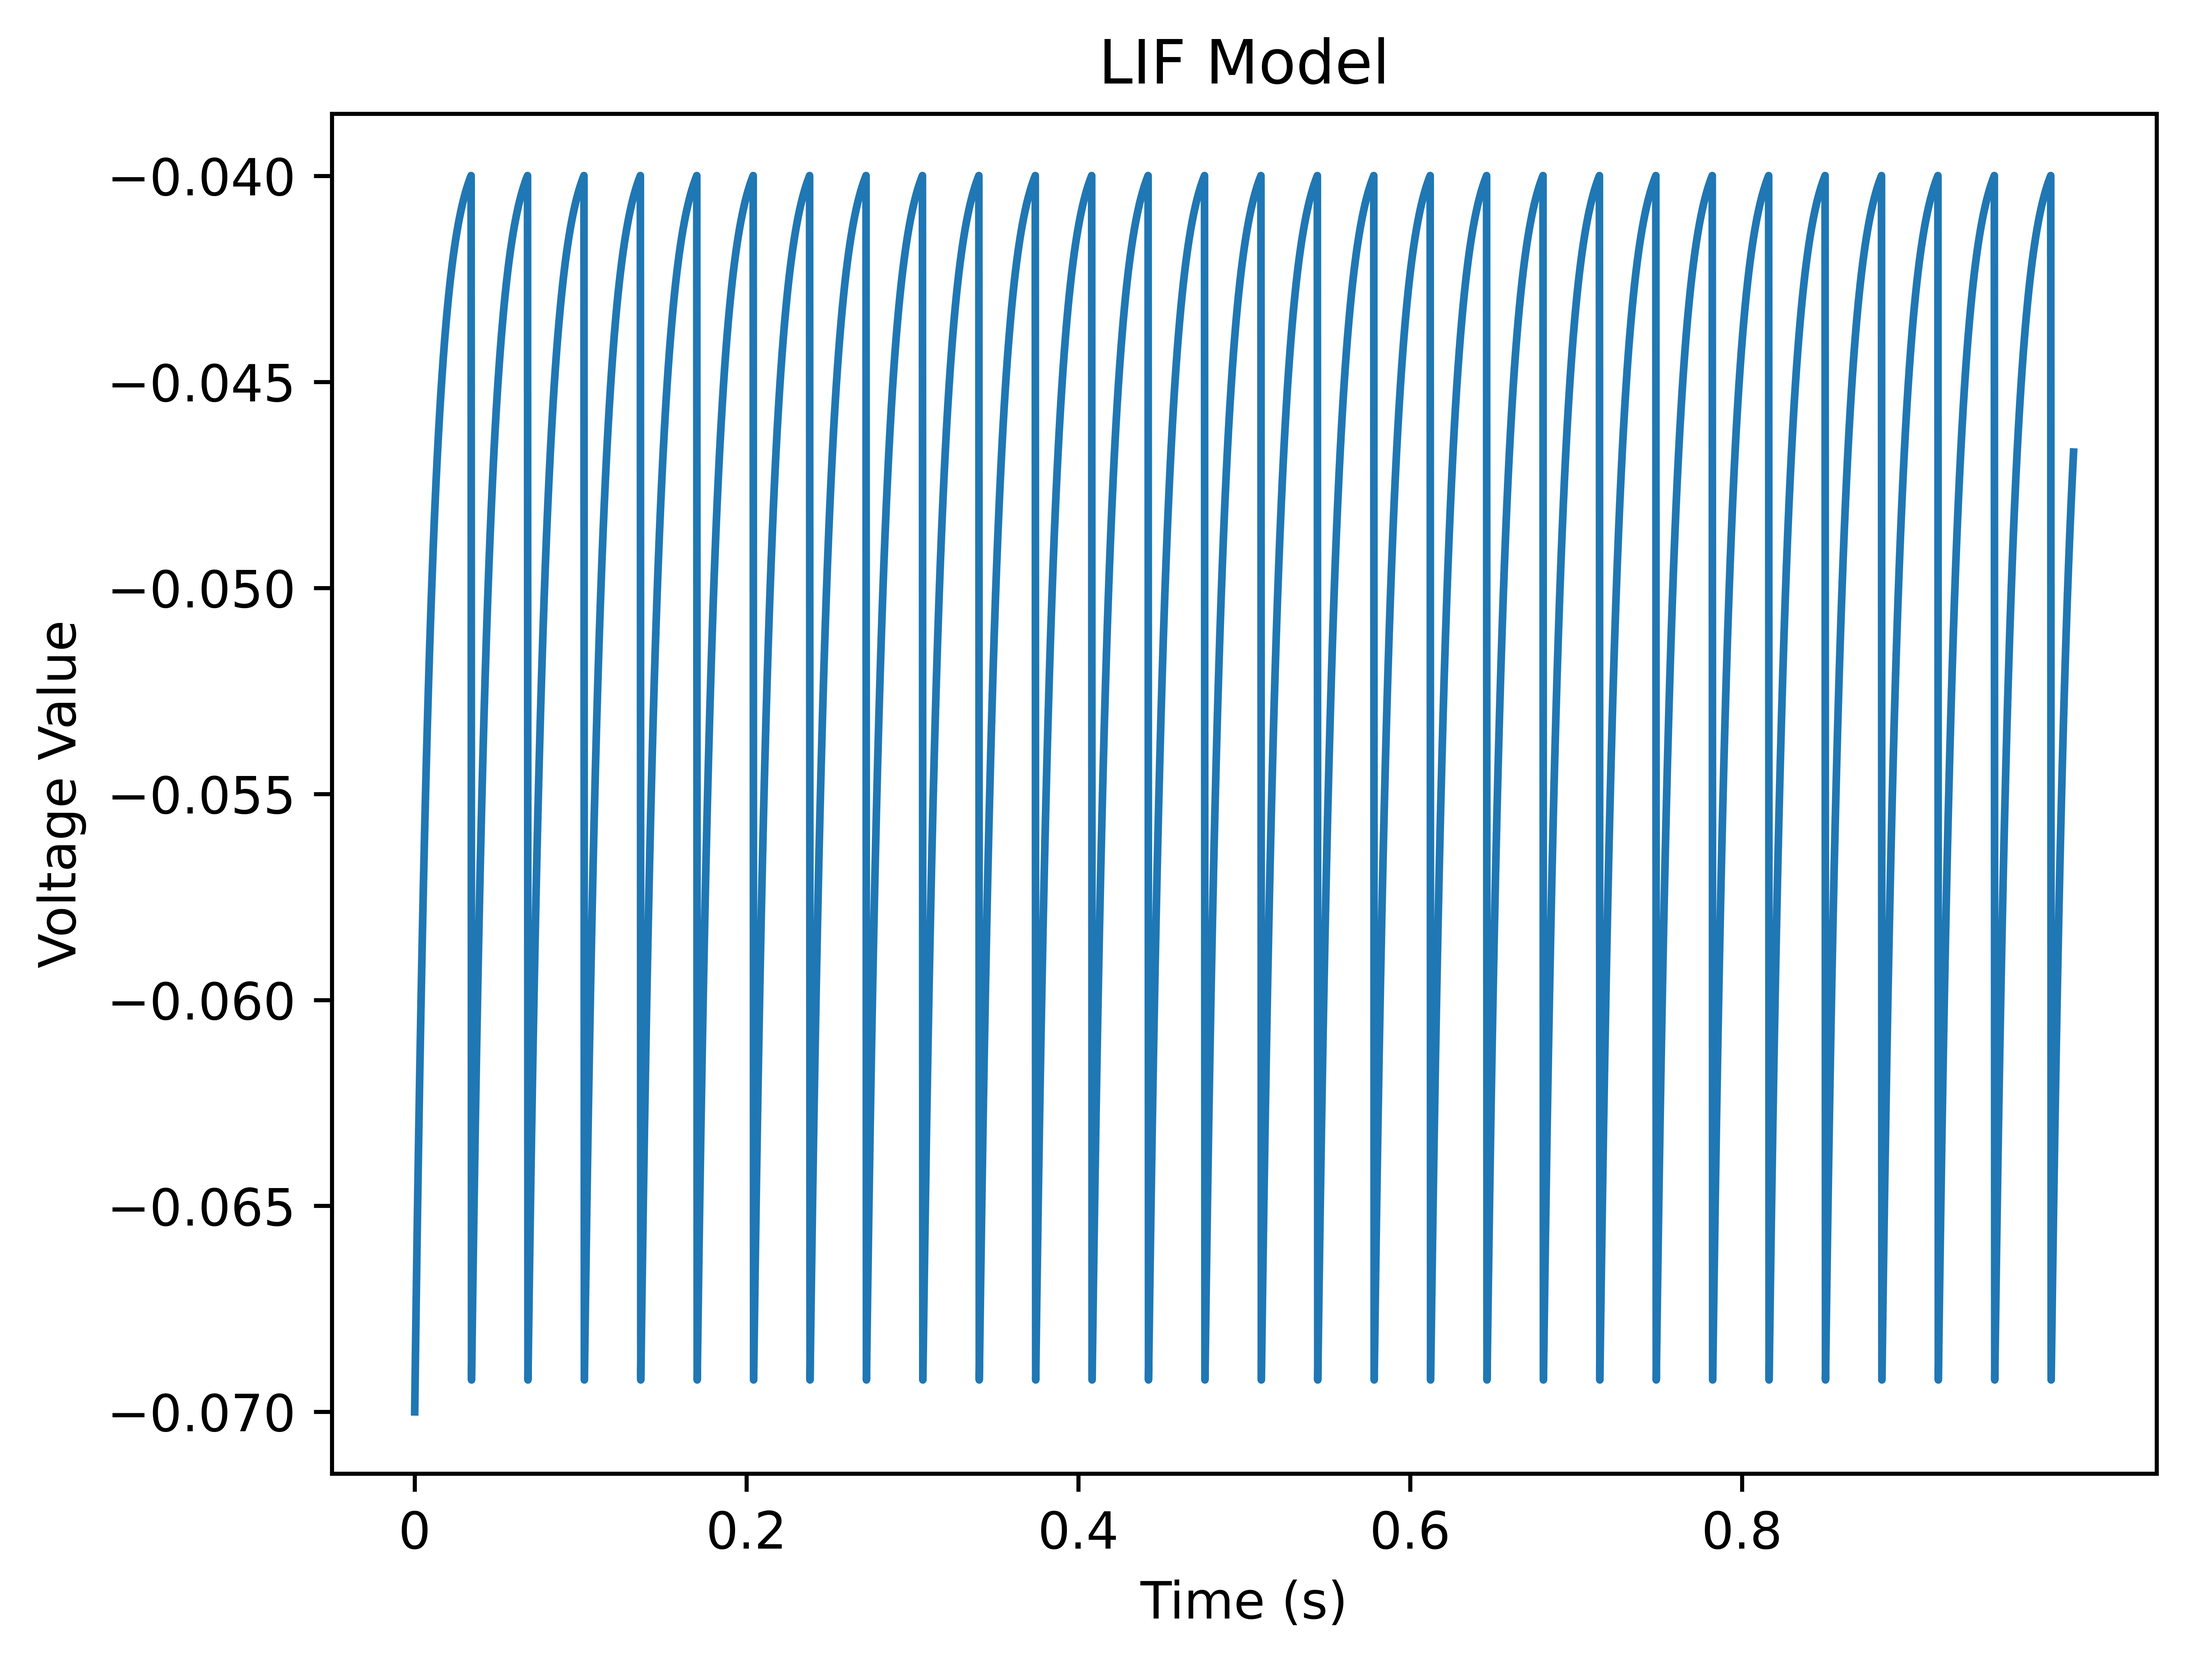
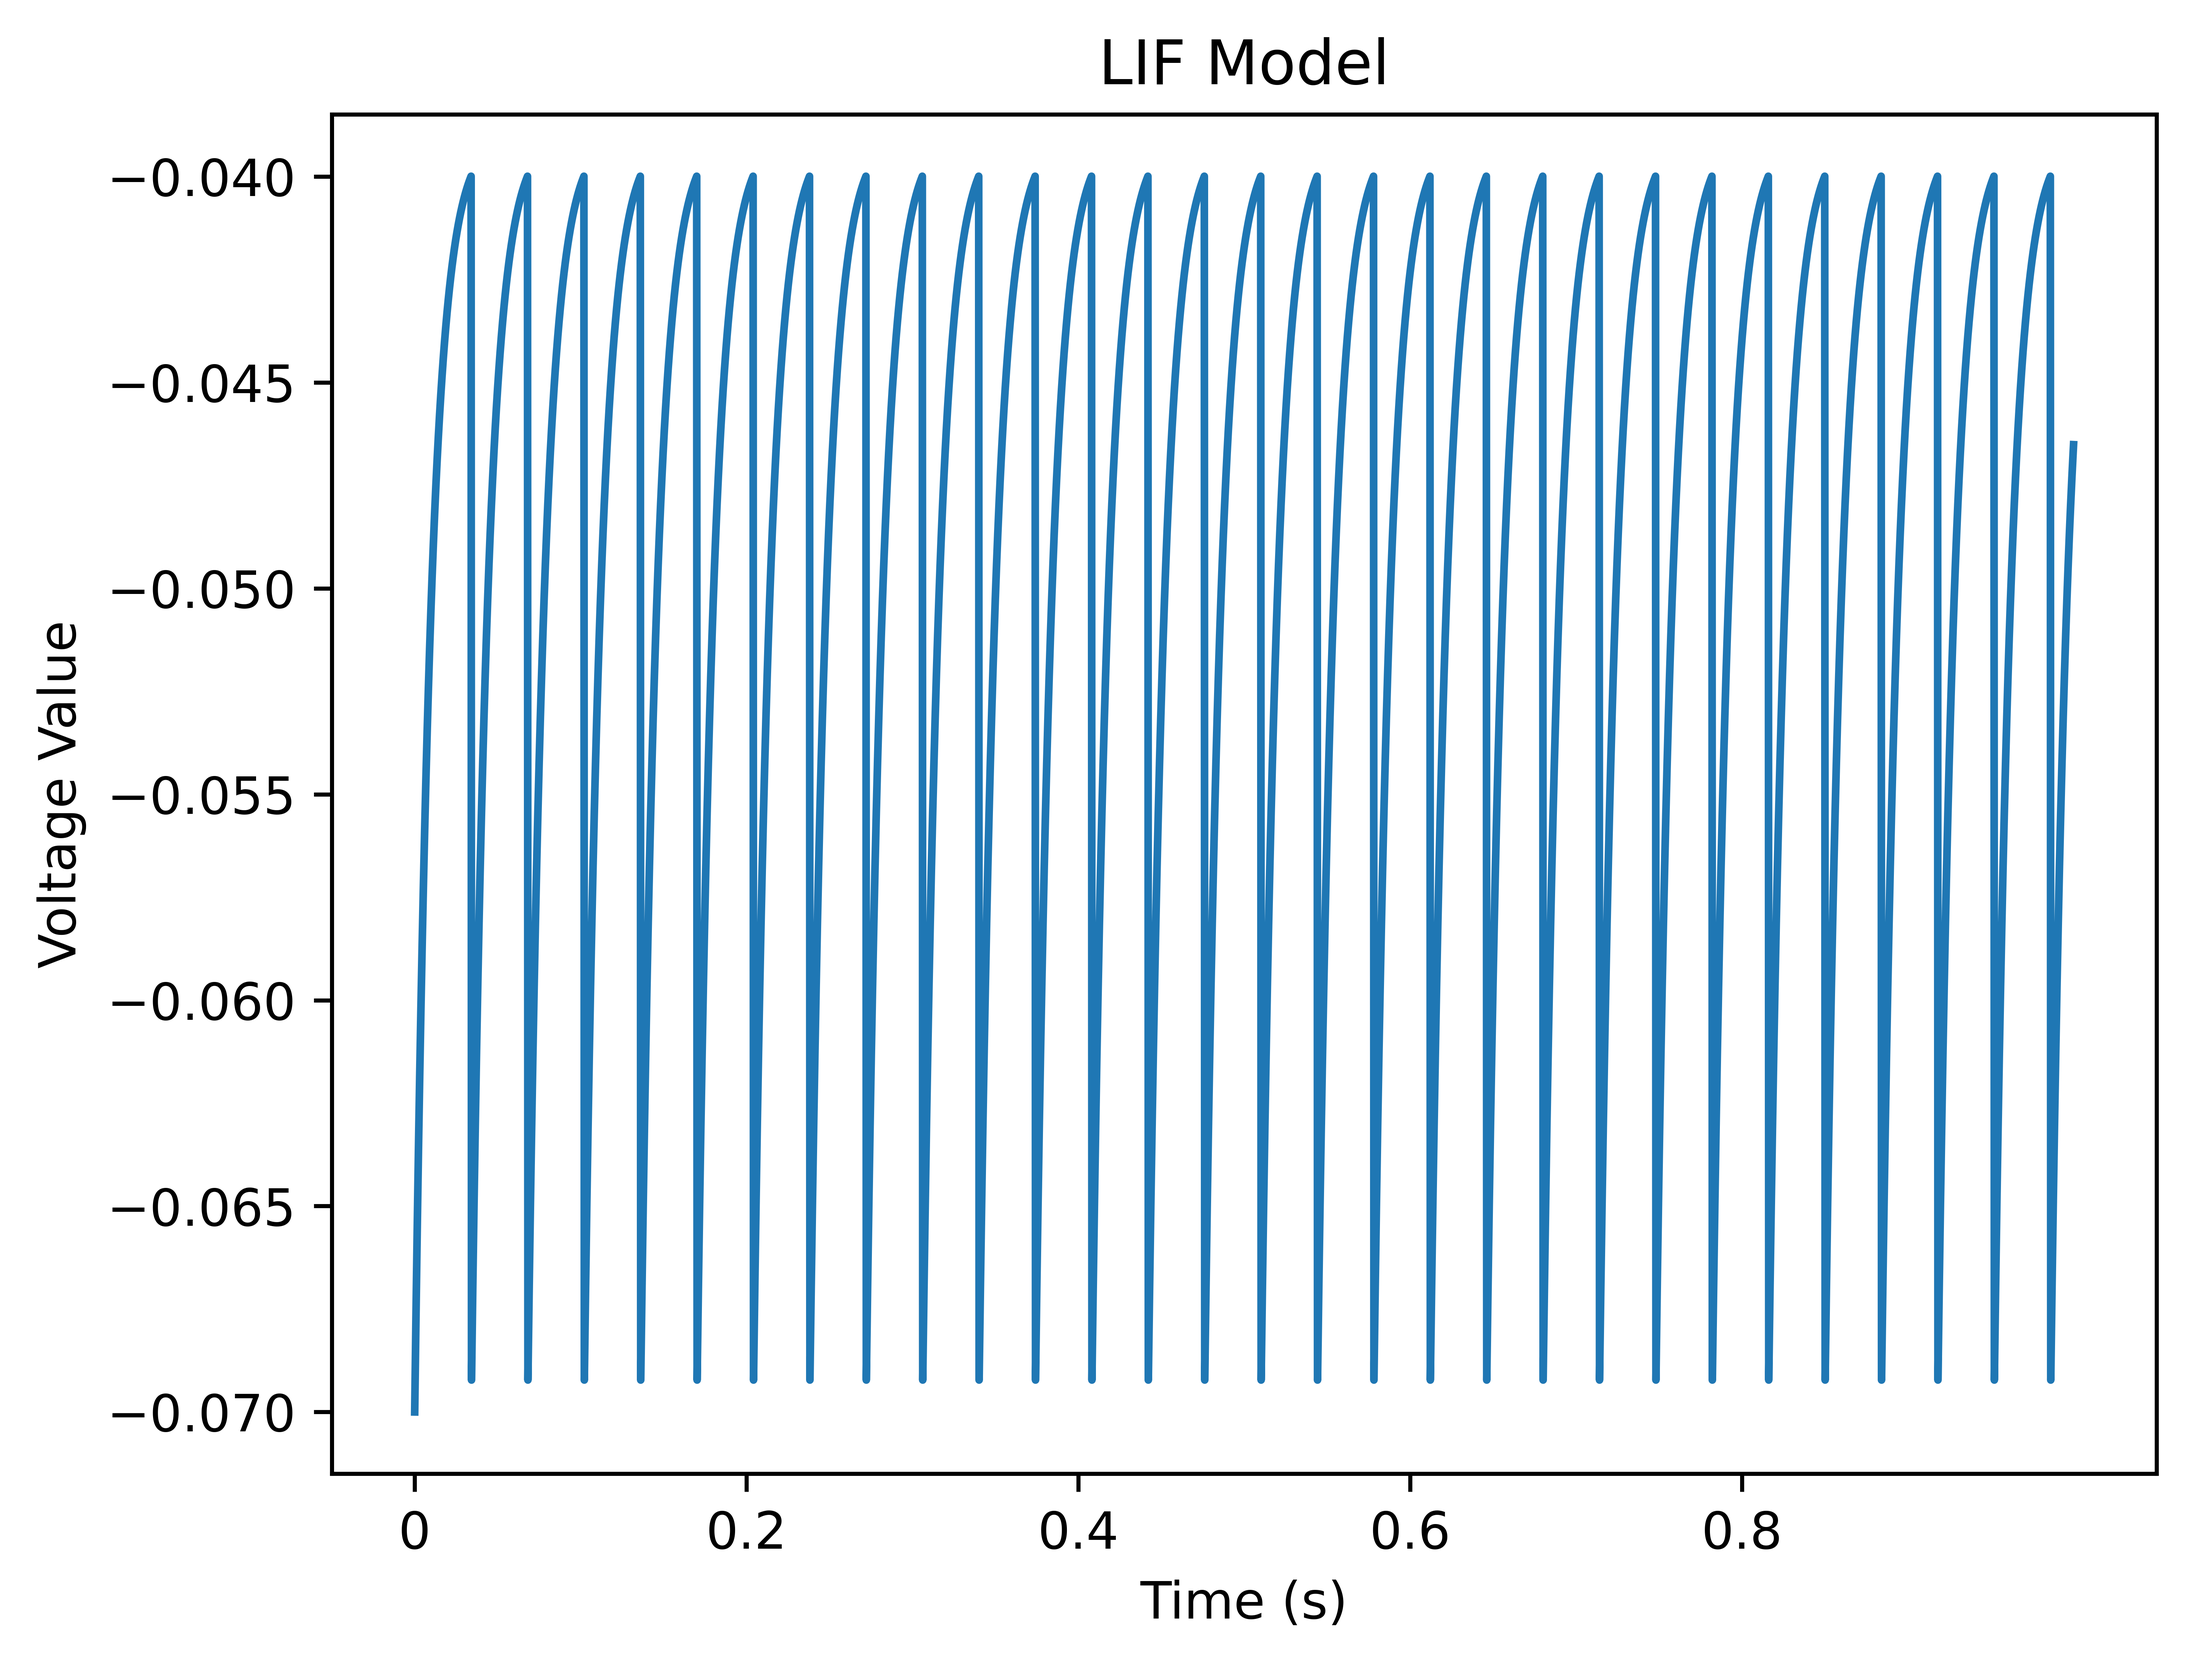
added runSimulation

diff --git a/Main.py b/Main.py
@@ -205,7 +205,16 @@ class STDPSynapse(poissonSynapse):
 
         self.RmGs = self.Rm * self.Gi
 
+def runSimulation(Neurons, Synapses):
+    global currentTime
+    for t in timestamps:
+        currentTime = t
+        for n in Neurons:
+            n.update()
+        for syn in Synapses:
+            syn.update()
 
+    return Neurons, Synapses
 
 # -----------------------------------------------------------------------------
 #                           Question 1
@@ -234,8 +243,11 @@ class STDPSynapse(poissonSynapse):
 def QuestionOne():
     #                    (tau,volt, volt_reset, leaky, volt_Thesh, Rm_Ie):
     lifNeuron = LIFNeuron(10 ,-70 ,        -70,   -70,        -40,   Rm=10, Ie=3.1)
-    for i in range(len(timestamps) - 1):    # Loop through how many time steps there are
-        lifNeuron.update()
+
+    runSimulation([lifNeuron], [])
+
+    #for i in range(len(timestamps) - 1):    # Loop through how many time steps there are
+    #    lifNeuron.update()
 
     print(len(lifNeuron.voltage_History))
     fig, ax = plt.subplots(1,1)
@@ -248,7 +260,8 @@ def QuestionOne():
 
     plt.title("LIF Model")
 
-    print("Saving figure_p1_q1_new.png after - %s seconds -" % (time.time() - start_time")
+    print("Saving figure_p1_q1_new.png after - %s seconds -" % (time.time() - start_time))
+
     plt.savefig('figure_p1_q1_new.png', bbox_inches='tight', dpi=1000)
 
 
@@ -269,27 +282,30 @@ def QuestionTwo(Es):
     synapse1_2 = Synapse(lifNeuron1   , lifNeuron2    , 0.15 , 0.5   , 10 , Es)
     synapse2_1 = Synapse(lifNeuron2   , lifNeuron1    , 0.15 , 0.5   , 10 , Es)
 
+    Ns = [lifNeuron1, lifNeuron2]
+    Ss = [synapse1_2, synapse2_1]
+    Ns, Ss = runSimulation(Ns, Ss)
 
-    for i in range(len(timestamps) - 1):    # Loop through how many time steps there are
-        lifNeuron1.update()
-        lifNeuron2.update()
-        synapse1_2.update()
-        synapse2_1.update()
+    # for i in range(len(timestamps) - 1):    # Loop through how many time steps there are
+    #     lifNeuron1.update()
+    #     lifNeuron2.update()
+    #     synapse1_2.update()
+    #     synapse2_1.update()
 
 
     fig, ax = plt.subplots(1,1)
 
-    ax.plot(lifNeuron1.voltage_History, color = 'blue')
-    ax.plot(lifNeuron2.voltage_History, color = 'red')
+    ax.plot(Ns[0].voltage_History, color = 'blue')
+    ax.plot(Ns[1].voltage_History, color = 'red')
     ax.legend(['lifNeuron One', 'lifNeuron 2'])
 
-    plt.xticks(np.arange(0,len(lifNeuron1.voltage_History), step=len(lifNeuron1.voltage_History)/5), ["0", "0.2", "0.4", "0.6", "0.8", "1"])
+    plt.xticks(np.arange(0,len(Ns[0].voltage_History), step=len(Ns[0].voltage_History)/5), ["0", "0.2", "0.4", "0.6", "0.8", "1"])
     plt.xlabel("Time (s)")
     plt.ylabel("Voltage Value")
 
     plt.title("LIF Model")
 
-    print("Saving figure_p1_q2_new.png after - %s seconds -" % (time.time() - start_time)
+    print("Saving figure_p1_q2_new.png after - %s seconds -" % (time.time() - start_time))
     plt.savefig('figure_p1_q2_new.png', bbox_inches='tight', dpi=1000)
 
 # =============================================================================
@@ -305,12 +321,13 @@ def PartB_QuestionOne():
     #                          (post_LIFNeuron, Gi, Delta_s, tauS, Es, Firerate):
     PSynapses = [poissonSynapse(lifNeuron     , 4 ,0.5     , 2   , 0 , 15 ) for i  in range(40)]
 
-    for t in timestamps:
-        currentTime = t
-        lifNeuron.update()
-        for syn in PSynapses:
-            syn.update()
+    lifNeuron, PSynapses = runSimulation([lifNeuron], PSynapses)
 
+    # for t in timestamps:
+    #     currentTime = t
+    #     lifNeuron.update()
+    #     for syn in PSynapses:
+    #         syn.update()
 
     fig, ax = plt.subplots(1,1)
 
@@ -323,7 +340,7 @@ def PartB_QuestionOne():
 
     plt.title("Part 2 Q1")
 
-    print("Saving figure_p2_q1_new.png after - %s seconds -" % (time.time() - start_time)
+    print("Saving figure_p2_q1_new.png after - %s seconds -" % (time.time() - start_time))
     plt.savefig('figure_p2_q1_new.png', bbox_inches='tight', dpi=1000)
 
 
@@ -344,11 +361,13 @@ def PartB_QuestionTwo(stdp):
         PSynapses = [STDPSynapse(0.2, 0.25, 20, 20,synapseVariables) for i  in range(40)]
 
     spike_Counter_Bins = []
+
     for t in timestamps:
+        currentTime = t
         lifNeuron.update()
         for syn in PSynapses:
             syn.update()
-        currentTime = t
+
 
         if (t % 10 < timestep/2 and not t == 0):
             spike_Counter_Bins.append(lifNeuron.spike_count/10)
@@ -383,15 +402,9 @@ def PartB_QuestionTwo(stdp):
     #print("average Gi: ", mean(final_Gis))
     print("average <f> of last 30s: ", str(mean(spike_Counter_Bins[-3:])))
 
-    print("Saving figure_2p_2a_new.png after - %s seconds -" % (time.time() - start_time)
+    print("Saving figure_2p_2a_new.png after - %s seconds -" % (time.time() - start_time))
     plt.savefig('figure_2p_2a_new.png', bbox_inches='tight')
 
-def PartB_QuestionThree_Aux(lifNeuron, PSynapses):
-    for t in timestamps:
-        lifNeuron.update()
-        for syn in PSynapses:
-            syn.update()
-        currentTime = t
 
 def PartB_QuestionThree():
 
@@ -412,12 +425,12 @@ def PartB_QuestionThree():
             #                              (post_LIFNeuron, Gi, Delta_s, tauS, Es, Firerate):
             if (not stdp):
                 PSynapses = [poissonSynapse(lifNeuron     , 4 ,0.5     , 2   , 0 , 10 + j ) for i  in range(40)]
-                PartB_QuestionThree_Aux(lifNeuron, PSynapses)   #run the sim
+                runSimulation([lifNeuron], PSynapses)   #run the sim
                 spike_Counter_Bins.append(lifNeuron.spike_count/300)  # Add the total spike count to a list
             else:
                 #                       (aPlus, aMinus, tauPlus, tauMinus, *sV)
                 PSynapses = [STDPSynapse(0.2, 0.25, 20, 20,synapseVariables) for i  in range(40)]
-                PartB_QuestionThree_Aux(lifNeuron, PSynapses)   # Run the sim
+                runSimulation([lifNeuron], PSynapses)   # Run the sim
                 spike_Counter_Bins_stdp.append(lifNeuron.spike_count/300)    # Add the total spike count to a list
 
 
@@ -435,7 +448,7 @@ def PartB_QuestionThree():
 
     #plt.show()
 
-    print("Saving figure_2p_3a_new.png after - %s seconds -" % (time.time() - start_time)
+    print("Saving figure_2p_3a_new.png after - %s seconds -" % (time.time() - start_time))
     plt.savefig('figure_2p_3a_new.png', bbox_inches='tight', dpi=1000)
 
 def PartB_QuestionThree_second():
@@ -447,16 +460,13 @@ def PartB_QuestionThree_second():
         lifNeuron = LIFNeuron(10 ,-65 ,-65        ,-65   ,-50        ,Rm =100, Ie = 0)
         synapseVariables = [lifNeuron     , 4    ,0.5     , 2   , 0 , 10 * (i + 1)]   #ease of use for vars being sent ot the synapse
         PSynapses = [STDPSynapse(0.2, 0.25, 20, 20,synapseVariables) for i  in range(40)]
-        Gi_Vals_Holder = [[] for i in range(40)]
-        for t in timestamps:
-            currentTime = t
-            lifNeuron.update()
-            for s in range(len(PSynapses)):
-                PSynapses[s].update()
-                #if we are in the last 30s, start a list of every syn's gi
-                if (t > timestamps[-1] - 30):
-                    Gi_Vals_Holder[s].append(PSynapses[s].Gi_history[-1])
 
+        runSimulation([lifNeuron], PSynapses)
+
+        #gather all the synapses strength in the last 30s of the simulation
+        Gi_Vals_Holder = [PSynapses[s].Gi_history[-(30/timestep):] for s in range(40)]
+
+        # now get the means strengths
         Gi_vals_mean.append([mean(Gi_Vals_Holder[j]) for j in range(40)])
 
     fig, ax = plt.subplots(1,1)
@@ -471,7 +481,7 @@ def PartB_QuestionThree_second():
     ax.legend(['10Hz', '20Hz'])
 
 
-    print("Saving figure_2p_3b_new.png after - %s seconds -" % (time.time() - start_time)
+    print("Saving figure_2p_3b_new.png after - %s seconds -" % (time.time() - start_time))
     plt.savefig('figure_2p_3b_new.png', bbox_inches='tight', dpi=1000)
 
 mill = 0.001
